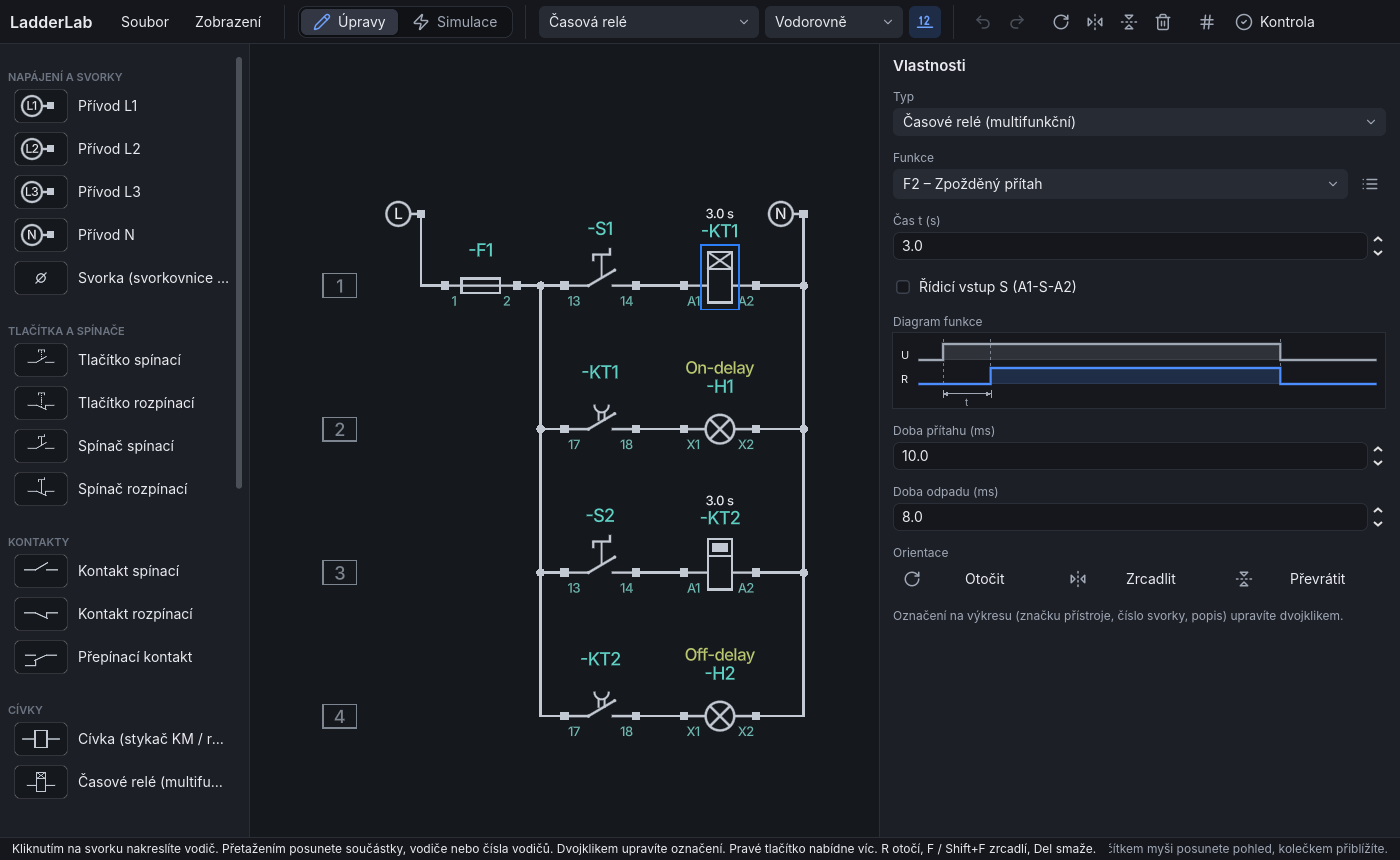
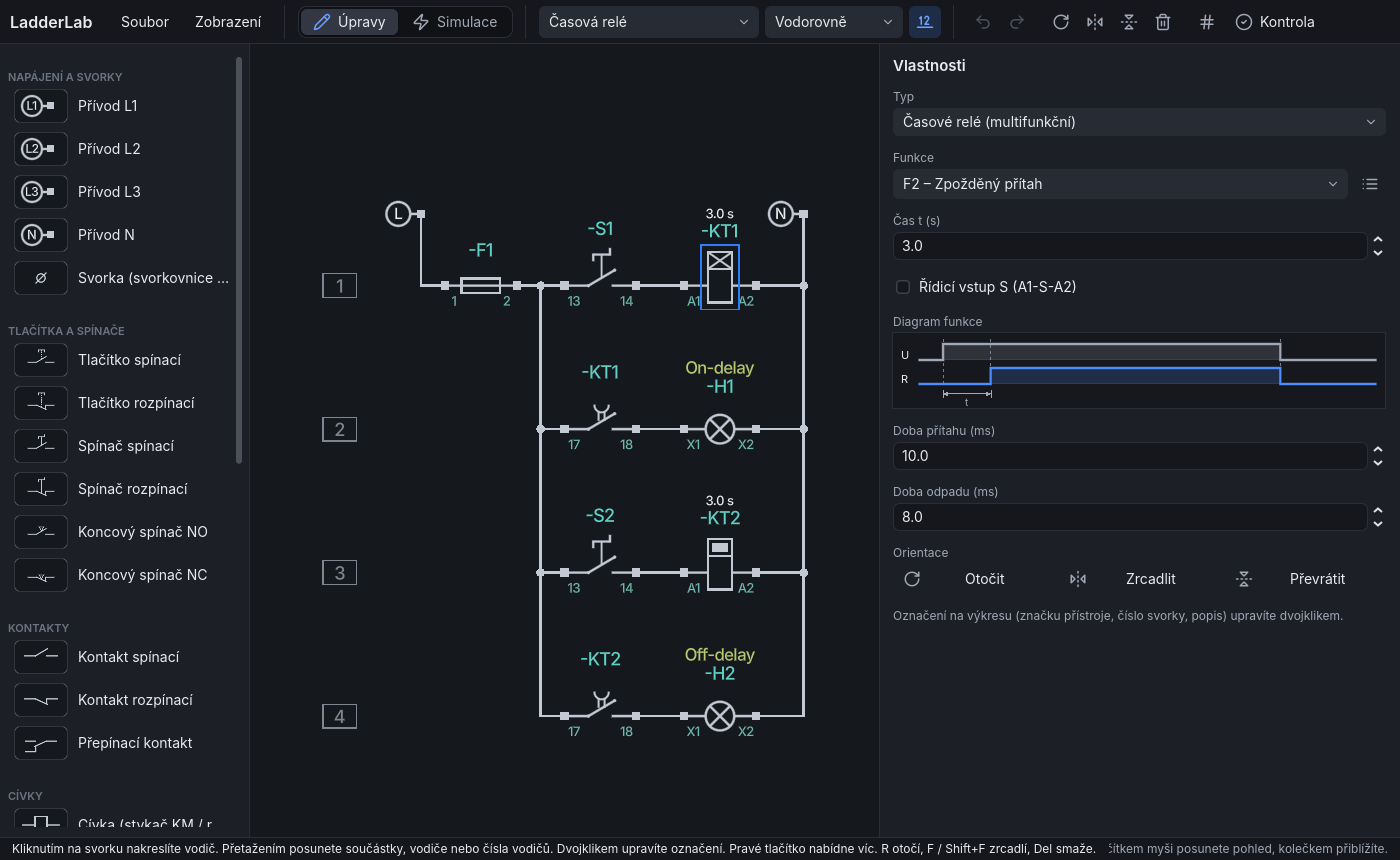
Limit switches, Czech designation prefixes, straight button heads
- New limit switch (koncový spínač) NO/NC, designated SQ, with the
  position-switch triangle fixed to the blade; clicked on and off
- New parts are designated SB (push button), RB (rotary switch), FU (fuse),
  FA (circuit breaker); changing the type changes the prefix
- Button and switch heads stay straight at one height while the blade moves

Claude-Session: https://claude.ai/code/session_0195W1p1hzfqGfpWqfXK2WuV

diff --git a/CLAUDE.md b/CLAUDE.md
@@ -49,8 +49,9 @@
 
 ## Conventions (Czech practice: ČSN EN 60617 / 81346 / 60947 / 60445)
 
-- Device designations: KM = contactor, KA = auxiliary (control) relay, KT = time relay, S = push button/switch,
-  H = lamp, M = motor, F = fuse/overload relay, Q = circuit/motor breaker, X = terminal, supplies L (= L1), L2, L3 and N
+- Device designations: KM = contactor, KA = auxiliary (control) relay, KT = time relay, SB = push
+  button, RB = rotary switch, SQ = limit switch (LimitSwitch, a LatchingSwitch clicked on/off),
+  H = lamp, M = motor, FU = fuse, FA = circuit breaker, F = overload relay, X = terminal, supplies L (= L1), L2, L3 and N
 - Terminals are addressed "<designation>:<terminal>", e.g. "K1:A1", "S0:11"; supplies are just "L" / "N"
 - Contact terminals: first digit = sequence, second = function
   (1-2 NC, 3-4 NO, 5-6 delayed NC, 7-8 delayed NO); coils A1-A2, lamps X1-X2, motors U1-U2
